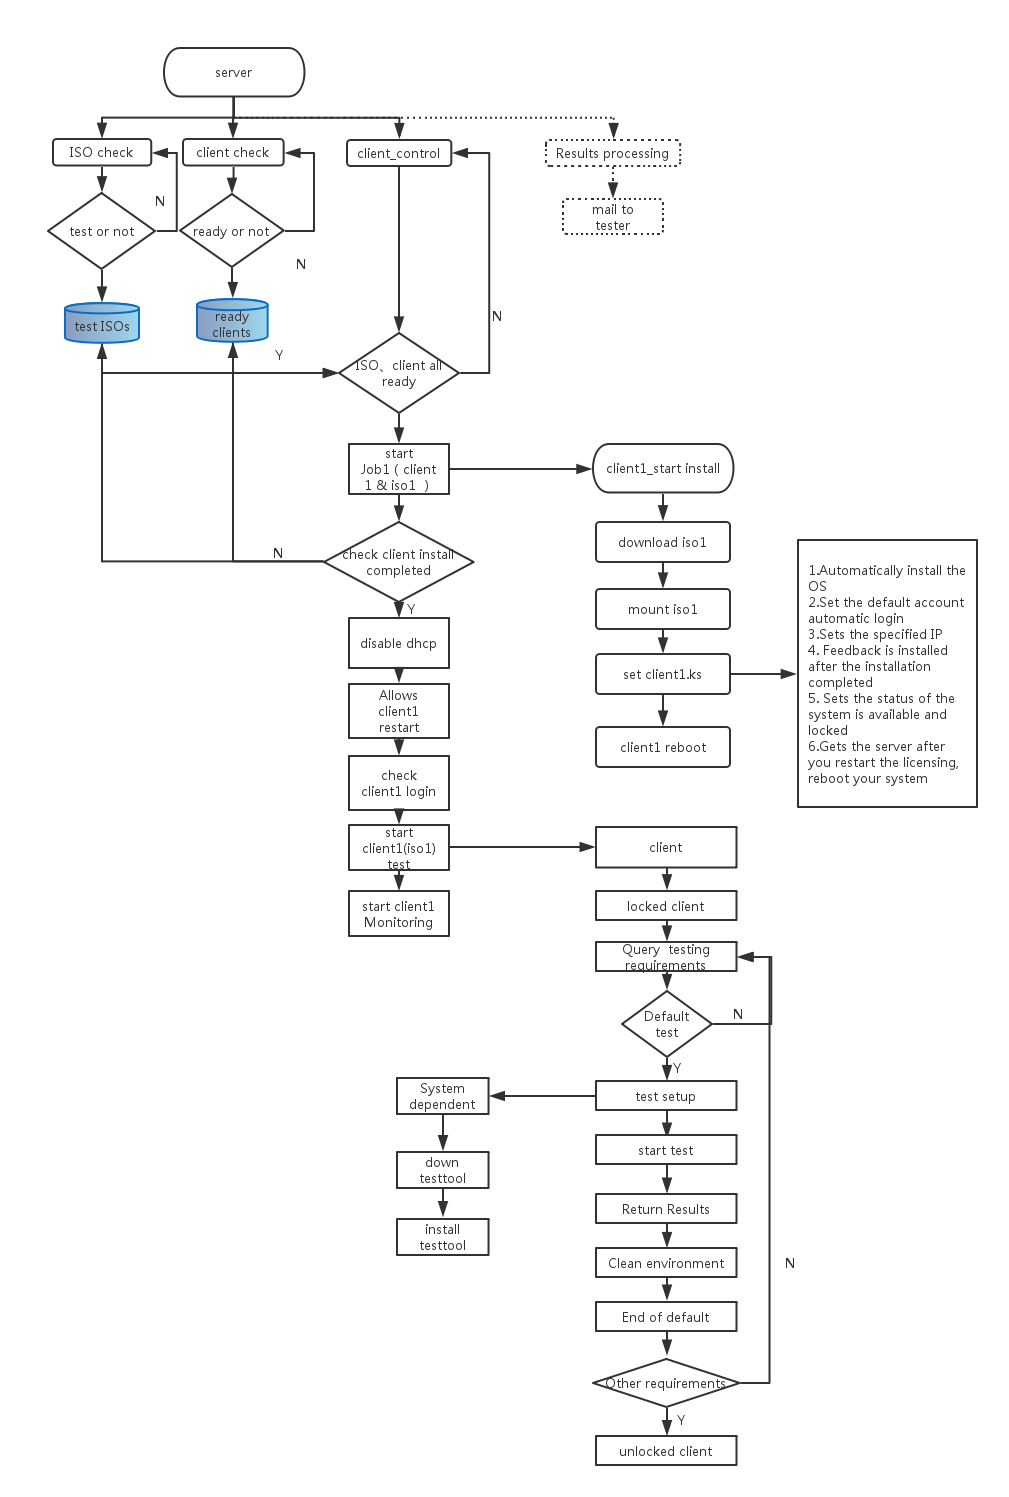
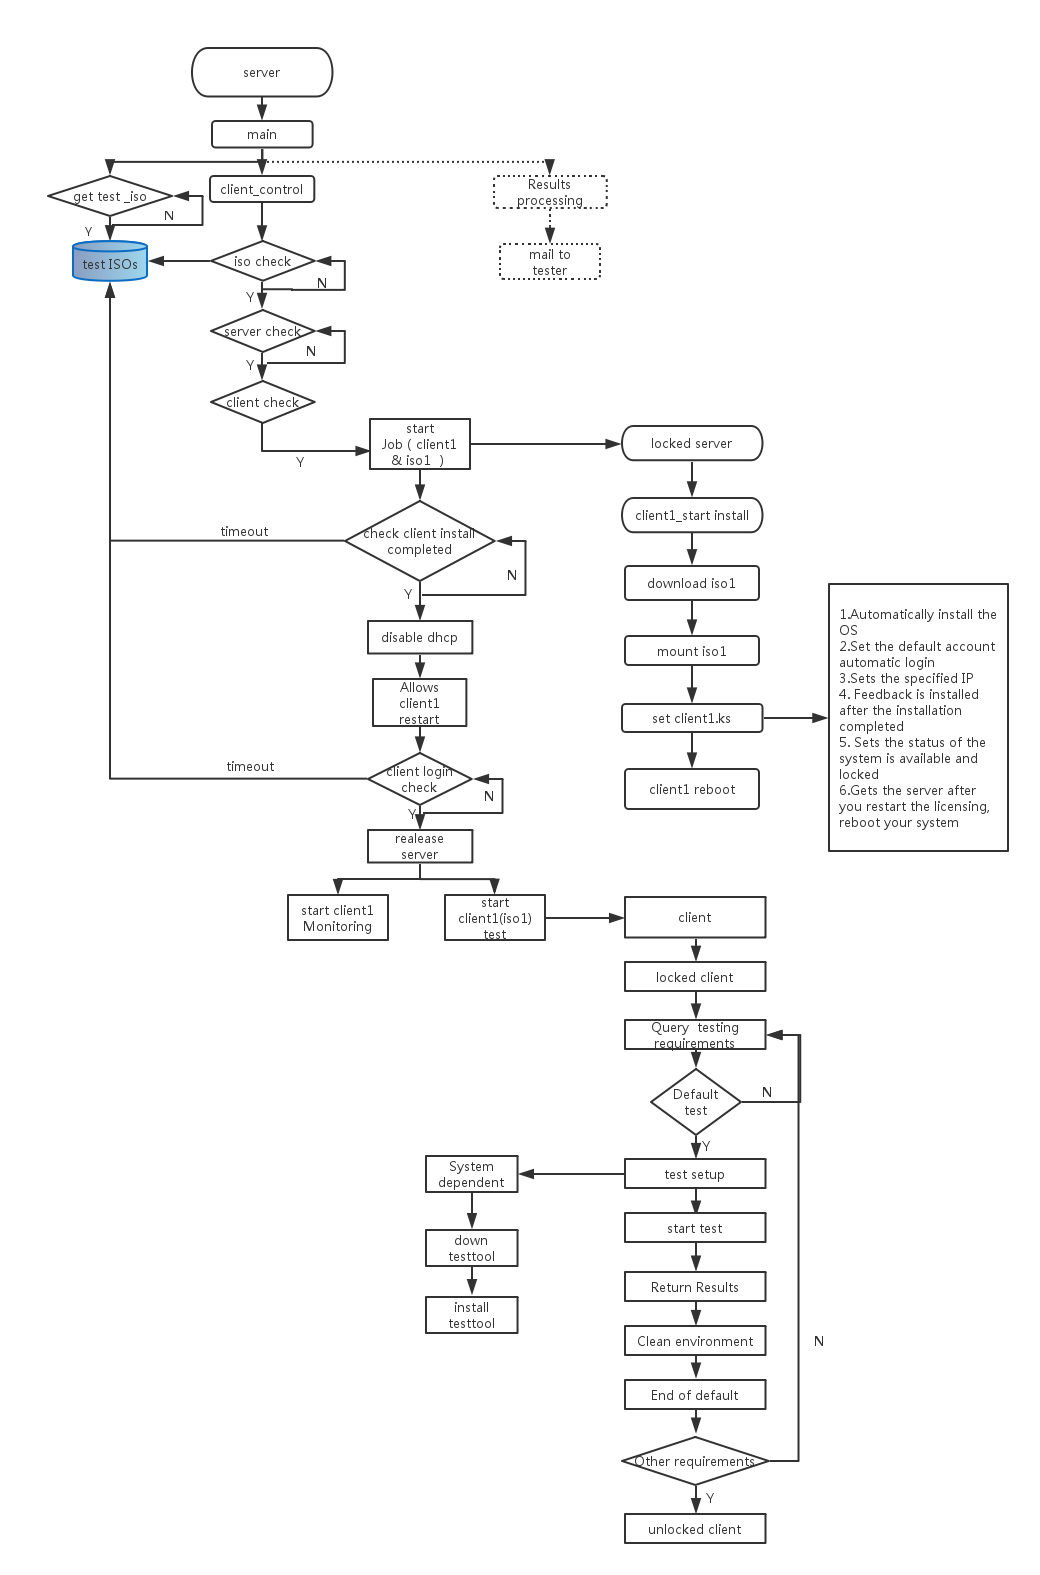
Process optimization

diff --git a/server/common/control.py b/server/common/control.py
@@ -78,17 +78,17 @@ class Main(Daemon, IsoCheck, ClientCheck, TestControl):
         self.totalclients = setupinfo['xml_dict']['clientip']
 
     def _run(self):
-        readyclients = multiprocessing.JoinableQueue()
+ #       readyclients = multiprocessing.JoinableQueue()
         dotestisos = multiprocessing.JoinableQueue()
         controllist = []
         control = IsoCheck(dotestisos)
         controllist.append(control)
         control.start()
         file('/tmp/daemon.pid', 'a+').write("%s\n" % control.pid)
-        control = ClientCheck(self.totalclients, readyclients)
-        controllist.append(control)
-        control.start()
-        file('/tmp/daemon.pid', 'a+').write("%s\n" % control.pid)
+ #       control = ClientCheck(self.totalclients, readyclients)
+ #       controllist.append(control)
+ #       control.start()
+ #       file('/tmp/daemon.pid', 'a+').write("%s\n" % control.pid)
         control = TestControl(readyclients, dotestisos)
         controllist.append(control)
         control.start()
